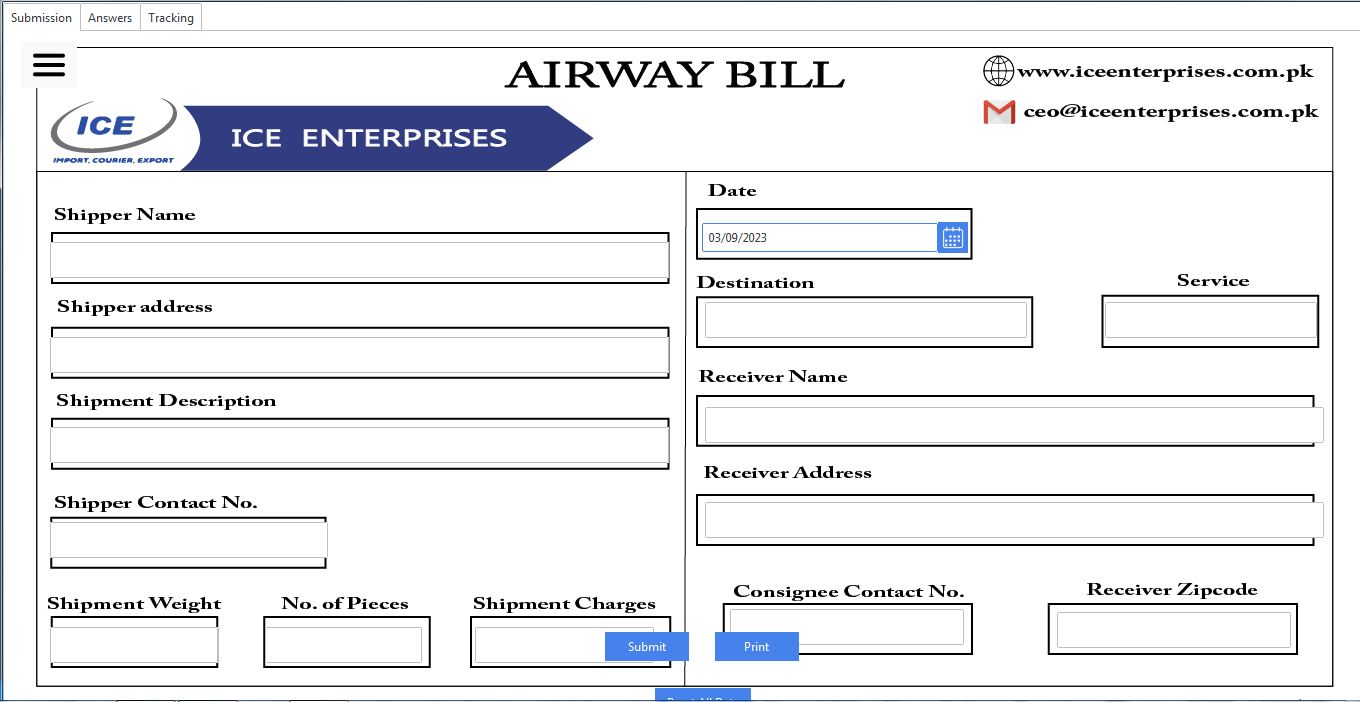
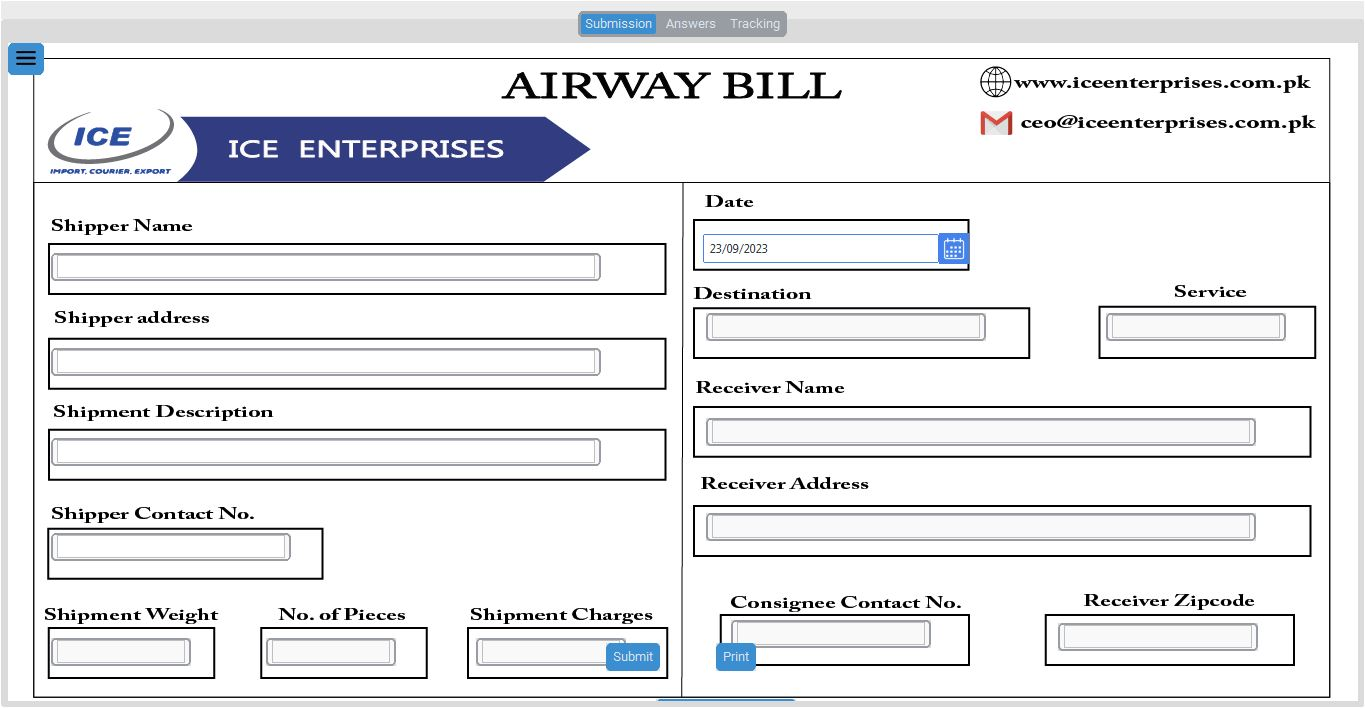
Read Description: - ICEPOS.PY: -- Removed Unused import (from CTkMessagebox import CTkMessagebox) -- In `git_clone_with_process` put the root var to use CTk.CTk -- Put answers_text variable's `tk.END` to `ctk.END` -- Put the push notification sending in seperate thread -- Remove the `bg="lightgray"`
- py_functions.PY:
-- Modified the original `create_db` function to remove the pre-existing db file
-- Added new function `create_db_` which checks if the db file is not present then creates a new db file
-- Removed `os.remove("ice-answers.db")` from `delete_db`

- README.MD:
-- Converted the Languages Profile Badge to `style=flat-square`
-- Summarized some things
-- Added 2 seperate Headings for Production/Non-Production use
-- Added Missing Module names and their functions

- GENERAL:
-- Updated Screenshots

Changed region(s): [[0.0, 0.0, 1.0, 1.0]]

diff --git a/icepos.py b/icepos.py
@@ -16,7 +16,7 @@ import threading
 from py_functions import close_connection, create_db, db_to_dict, delete_db, display_consign_key, generate_consign_key
 import customtkinter as ctk
 from custom_widgets import CustomMessagebox
-from CTkMessagebox import CTkMessagebox
+
 
 # Functions:
 def on_rm_error(path):
@@ -49,7 +49,7 @@ def git_clone_with_progress(repo_url, destination_path):
         None
     """
     # Create a Tkinter window for the message box
-    root = tk.Tk()
+    root = ctk.CTk()
     root.withdraw()  # Hide the main window
 
     try:
@@ -345,7 +345,7 @@ def animate_sidebar(target_x):
     Parameters:
         target_x (int): The x position to animate the sidebar to.
 
-    Returns:
+    Returns: 
         None
     """
     start_x = sidebar.winfo_x()
@@ -392,11 +392,11 @@ def display_selected_answer():
             return
 
         answers_text.configure(state="normal")
-        answers_text.delete(1.0, tk.END)
+        answers_text.delete(1.0, ctk.END)
 
         # Format and display all fields of the selected answer
         for column, value in ans_dict.items():
-            answers_text.insert(tk.END, f"{column}: {value}\n")
+            answers_text.insert(ctk.END, f"{column}: {value}\n")
 
         answers_text.configure(state="disabled")
         refresh_dropdown_and_text()
@@ -583,7 +583,29 @@ def submit():
                 else:
                     print(f"Error sending notification data: {info_response.status_code} - {info_response.text}")
 
-            
+
+
+            def send_notification_and_data_in_thread(payload, completion_event):
+                """
+                Sends a push notification and data using the Pusher API in a separate thread.
+
+                Args:
+                    payload (dict): The data payload for the Pusher notification.
+                    completion_event (threading.Event): An event that will be set when the function has finished.
+
+                Returns:
+                    None
+
+                Raises:
+                    None
+                """
+                # Set the event to indicate completion
+                completion_event.set()
+
+                send_notification_and_data(payload)
+                completion_event.set()
+
+
             CustomMessagebox.showinfo("Data Submission", "Data Submitted Successfully!")
             data = {
                 'ship_name': ship_name,
@@ -601,7 +623,9 @@ def submit():
                 'ship_contact': ship_contact,
                 'rec_contact': rec_contact
             }
-            send_notification_and_data(info=data)
+            event = threading.Event()
+            send_notification_and_data_in_thread(payload=data, completion_event=event)
+            event.wait()
     except Exception as e:
         print("Error in submit function:", str(e))
         pass
@@ -831,15 +855,16 @@ background_image_path = "background.png"
 print("Background image path:", background_image_path)
 try:
     background_image = tk.PhotoImage(file=background_image_path)
+
     print("Background image loaded successfully.")
     # Create an image item on the canvas with the background image
     submission_canvas.create_image(0, 0, anchor=tk.NW, image=background_image)
-    print("Background image loaded on canvas Successfully.")
+    print("Background image loaded on canvas successfully.")
 except tk.TclError as e:
     print("Error loading background image:", str(e))
 
 # Create the sidebar (hamburger menu content)
-sidebar = tk.Frame(window, bg="lightgray", width=200)
+sidebar = ctk.CTkFrame(window, width=200)
 sidebar.place(x=-300, y=0, relheight=1, anchor=tk.NW)
 
 
@@ -1047,15 +1072,15 @@ reset_button = ctk.CTkButton(tab_control.tab("Submission"), text="Reset All Data
 reset_button.place(x=650, y=656)
 
 # Create a Text widget to display the answers in the Answers tab
-answers_text = tk.Text(tab_control.tab("Answers"), width=80, height=20)
+answers_text = ctk.CTkTextbox(tab_control.tab("Answers"), width=600, height=400)
 answers_text.pack()
 answers_text.configure(state="disabled")  # Set the state to "disabled"
 
 # Create a StringVar to hold the selected answer
-selected_answer = ctk.StringVar(value="")
+selected_answer = ctk.StringVar()
 
 # Create a Combobox for the dropdown
-answer_dropdown = ctk.CTkComboBox(tab_control.tab("Answers"), variable=selected_answer, width=500, state="readonly")
+answer_dropdown = ctk.CTkComboBox(tab_control.tab("Answers"), variable=selected_answer, width=500, state="readonly", values=[""])
 answer_dropdown.pack()
 
 
@@ -1071,7 +1096,7 @@ def refresh_dropdown():
     """
     cursor.execute('SELECT shipper_name, receiver_name FROM answers')
     shipper_receiver_names = cursor.fetchall()
-    answer_dropdown["values"] = [f"{shipper[0]} - {shipper[1]}" for shipper in shipper_receiver_names]
+    answer_dropdown.configure(values = [f"{shipper[0]} - {shipper[1]}" for shipper in shipper_receiver_names])
 
 
 # Function to update the dropdown with shipper-receiver names
@@ -1090,14 +1115,14 @@ def update_dropdown_with_data():
         None
     """
     ans = db_to_dict()
-    answer_dropdown["values"] = list(ans.keys())
+    answer_dropdown.configure(values = list(ans.keys()))
     answer_dropdown.rows = ans
 
 
 # Populate the Combobox with the shipper names from the database
 cursor.execute('SELECT shipper_name, receiver_name FROM answers')
 shipper_receiver_names = cursor.fetchall()
-answer_dropdown["values"] = [f"{shipper} - {receiver}" for shipper, receiver in shipper_receiver_names]
+answer_dropdown.configure(values = [f"{shipper} - {receiver}" for shipper, receiver in shipper_receiver_names])
 
 # Initialize 'rows' attribute for the answer_dropdown
 answer_dropdown.rows = {}

diff --git a/py_functions.py b/py_functions.py
@@ -6,10 +6,8 @@ import pickle
 
 def create_db():
         """
-        Creates a SQLite database and table if they do not already exist.
-
-        The function first checks if the database file "other\ice-answers.db" exists in the current directory. 
-        If the file does not exist, a new SQLite database is created and a connection is established. 
+        Creates a SQLite database and table.
+        a new SQLite database is created and a connection is established. 
         Otherwise, the function will not create a new database and will proceed with the existing one.
 
         The function then creates a cursor object from the connection, which will be used to execute SQL commands. 
@@ -29,16 +27,16 @@ def create_db():
         Returns:
         None
         """
-        if not os.path.exists("ice-answers.db"):
-            # Create a connection to the SQLite database or create a new one if it doesn't exist
-            global conn
-            conn = sqlite3.connect("ice-answers.db")
-            # Create a cursor object from the connection to execute SQL commands
-            global cursor
-            cursor = conn.cursor()
+        os.remove("ice-answers.db")
+        # Create a connection to the SQLite database or create a new one if it doesn't exist
+        global conn
+        conn = sqlite3.connect("ice-answers.db")
+        # Create a cursor object from the connection to execute SQL commands
+        global cursor
+        cursor = conn.cursor()
 
-            # Define the SQL command to create the table with the specified columns
-            create_table_query = """
+         # Define the SQL command to create the table with the specified columns
+        create_table_query = """
             CREATE TABLE IF NOT EXISTS answers (
             shipper_name TEXT,
             shipper_address TEXT,
@@ -58,14 +56,14 @@ def create_db():
         );
             """
 
-            # Execute the create table command
-            cursor.execute(create_table_query)
+        # Execute the create table command
+        cursor.execute(create_table_query)
 
-            # Commit the changes and close the connection
-            conn.commit()
-            conn.close()
+        # Commit the changes and close the connection
+        conn.commit()
+        conn.close()
 
-            print("SQLite Database and Table Created Successfully.")
+        print("SQLite Database and Table Created Successfully.")
 
 
 def db_to_dict():
@@ -139,7 +137,6 @@ def delete_db():
         cursor.execute('DROP TABLE answers')
         conn.commit()
         conn.close()
-        os.remove("ice-answers.db")
         print("SQLite Database and Table Deleted Successfully")
 
 

diff --git a/README.md b/README.md
@@ -4,22 +4,23 @@
 ![Checks](https://badgers.space//github/checks/RyanGamingYT/ICEPOS)
 [![License](https://badgers.space//github/license/RyanGamingYT/ICEPOS)](LICENSE.txt)
 ![Issues](https://badgers.space//github/open-issues/RyanGamingYT/ICEPOS)
-![Languages](https://img.shields.io/github/languages/top/RyanGamingYT/ICEPOS)
+![Languages](https://img.shields.io/github/languages/top/RyanGamingYT/ICEPOS?style=flat-square)
 
 #
 
 # ICE POS
 
-ICE POS (Point of Sale) is a Python application created by Me for my father's business. It offers a user-friendly
+ICE POS (Point of Sale) is a Python application created for my father's business. It offers a user-friendly
 interface for data submission, retrieval, and printing, along with a custom identifier key for shipment identification.
 
 ### Disclaimer
 
 - This code only works on Windows.
-- It is designed to only work on a monitor with specific Screen Resolution. Remember to modify it to your needs.
+- It is designed to only work on a monitor with a specific Screen Resolution. Please remember to change it to your needs.
 
 ## Installation Instructions
 
+### For Non-Production Use:
 - Clone this repo using the following:
 
 ```bash
@@ -32,9 +33,15 @@ git clone https://github.com/RyanGamingYT/ICEPOS
 cd ICEPOS
 ```
 
-- Type `run.bat` or `./run.bat` if you are using Windows Powershell.
+- Type `run.bat` or `./run.bat` if you use Windows Powershell.
 - It will automatically install all dependencies (if needed) for the app to work.
 - If you want to use it frequently then create a shortcut ([ICEPOS.ink](ICE%20POS.lnk)) for the `run.bat` file.
+
+### For Production Use:
+- Download the ZIP file of the software ([ICEPOS.zip](ICEPOS.zip))
+- Extract the files.
+- Find the EXE file (icepos.exe)
+- Run.
 
 ## Features
 
@@ -42,23 +49,26 @@ cd ICEPOS
 - [x] Data Retrieval (Answers Tab)
 - [x] Printing of Data
 - [x] Custom Identifier Key (Consign Key)
+- [x] Tracking of Shipments
 
 ## Modules Used
 
-- Tkinter: Used for creating the graphical user interface, including messagebox, ttk, and filedialog.
-- Sqlite3: Used for working with the SQLite database.
+- Tkinter: Used for creating the graphical user interface, including filedialog.
+- SQlite3: Used for working with the SQLite database.
 - Pillow (PIL): Used for image creation, including Image, ImageDraw, and ImageFont.
-- Pickle: Used for serializing and deserializing data, but in this application to store consignment keys.
-- Math: used for Math-related operations including Pi values, Sin, Con operations.
+- Pickle: Used for serializing and deserializing data, but in this application, it is used to store consignment keys.
+- Math: used for Math-related operations including Pi values, Sin, and Con operations.
 - Time: used to add delays.
-- Datetime: used for retreiving date.
+- DateTime: used for retrieving date.
 - Requests: used for checking for any updates for ICEPOS.
-- Subprocess: used in Updating process by cloning the repository using [Git](https://www.git-scm.com).
+- Subprocess: used in the Updating process by cloning the repository using [Git](https://www.git-scm.com).
 - Shutil: Used to delete pre-existing installations of ICEPOS to make room for the New Update.
 - Stat: used for manipulating folder permissions.
 - Screeninfo: Used for obtaining screen information.
-- OS: Used for various operating system-related functionalities including printing, finding absolute path of files, etc.
-- ttkbootstrap: Used for Styling the App and adding the DateEntry.
+- OS: Used for various operating system-related functionalities including printing.
+- ttkbootstrap: Used for adding the DateEntry.
+- CustomTkinter: Used for styling the application.
+- CTkMessagebox: Extension Pack for custom Messageboxes for CustomTkinter.
 
 ## Screenshots
 
